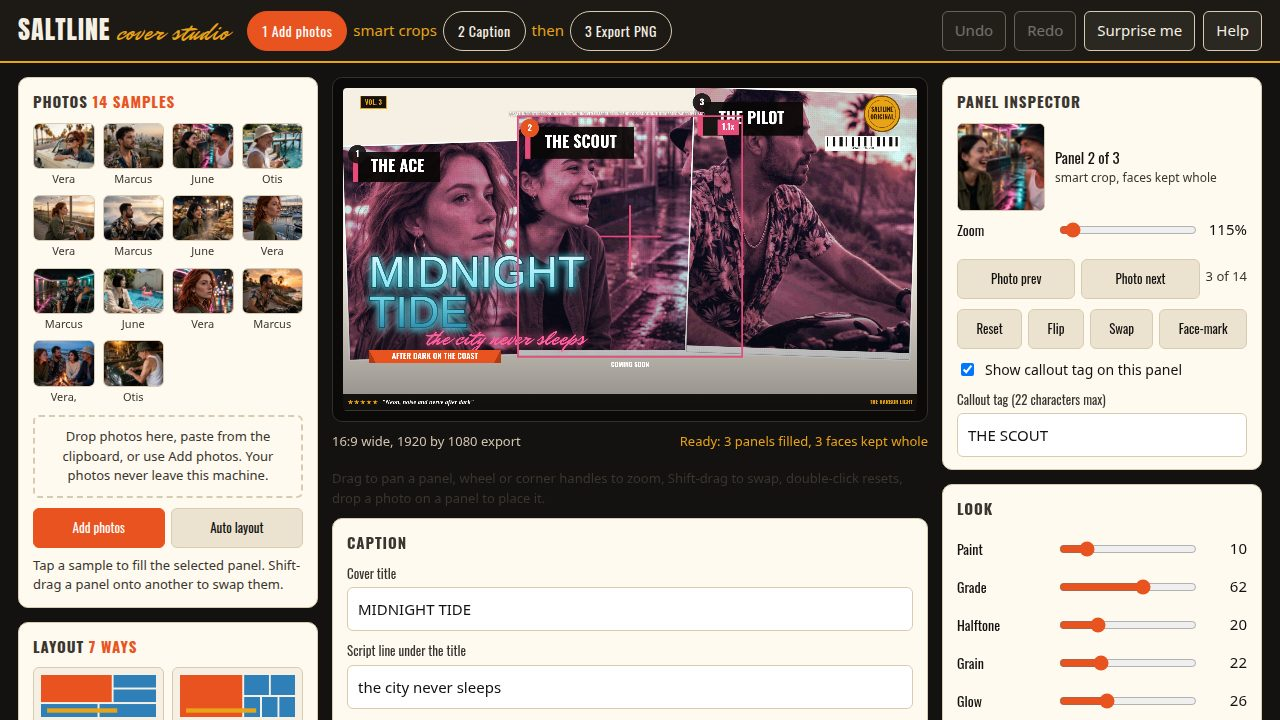
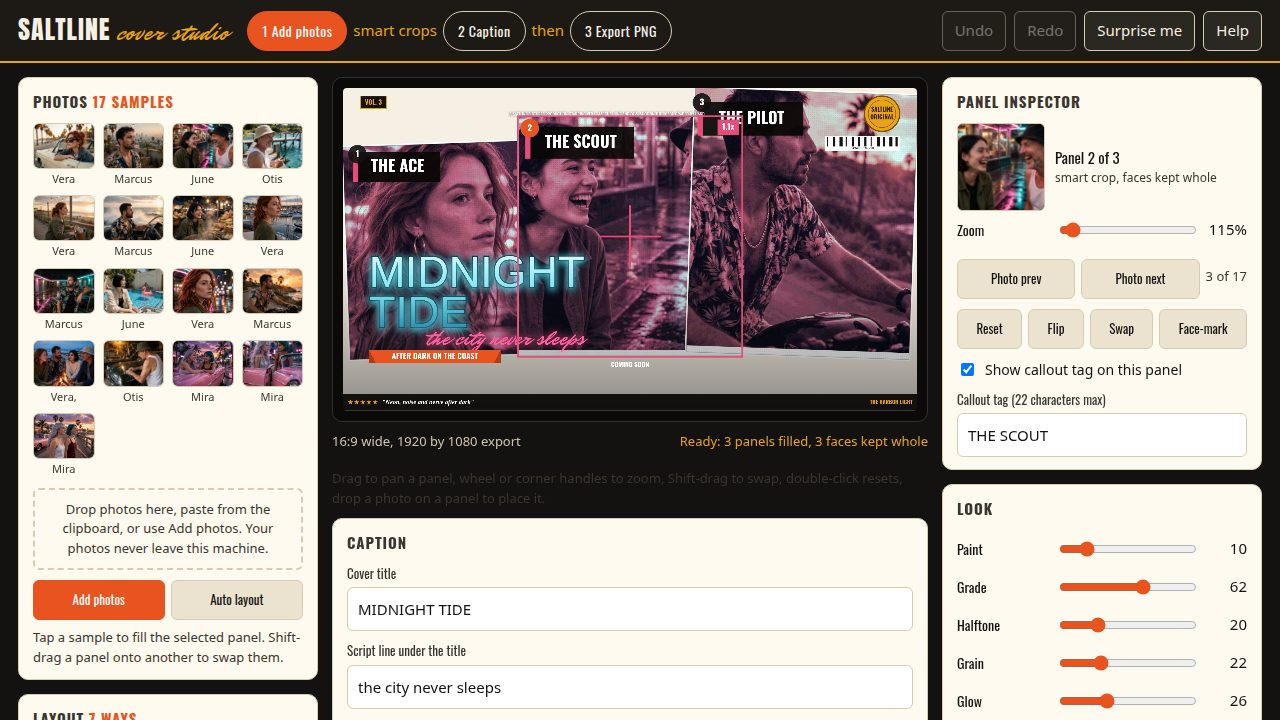
Saltline: Vice City duo heroes + billing shrink-to-fit (recorded session 01a1fbaa)

Changed region(s): [[0.0, 0.4583, 0.25, 1.0], [0.0625, 0.1222, 0.1562, 0.1528]]

diff --git a/app/src/lettering/poster-finish.js b/app/src/lettering/poster-finish.js
@@ -109,28 +109,29 @@ export function drawQuoteBar(ctx, x, y, w, quote, outlet, fontSize) {
 }
 
 export function drawBillingLine(ctx, x, y, w, text, fontSize) {
-  const full = text.toUpperCase();
-  // Shrink the line until the whole billing fits inside its box, measuring
-  // with whatever font is actually live at draw time: Oswald can still be
-  // loading when a capture draws, and the fallback then measures far wider
-  // than Oswald, so a size picked from Oswald's metrics alone would not
-  // fit. Never cut the text: a billing that ends in "..." reads as a
-  // broken poster. Returns the font size the billing was drawn at.
-  const floor = Math.max(8, Math.round(fontSize * 0.55));
+  const line = text.toUpperCase();
+  // A billing line is never allowed to run off its box: shrink it step by
+  // step until it fits, measuring against the font that is really in use
+  // right now. While a webfont is still loading, the fallback face measures
+  // much wider than the real one, so a size chosen from the real face's
+  // metrics alone can still overflow on a capture. If even the smallest
+  // size is too wide, fall through to the two-line wrapped block instead
+  // of trimming a single letter. Returns the size the line was drawn at.
+  const minSize = Math.max(8, Math.round(fontSize * 0.55));
   let size = fontSize;
   ctx.save();
-  ctx.font = `${size}px Oswald, sans-serif`;
   ctx.textAlign = 'center';
   ctx.textBaseline = 'middle';
-  while (ctx.measureText(full).width > w && size > floor) {
-    const next = Math.max(floor, Math.round(size * 0.92));
-    if (next >= size) break;
+  const fits = () => ctx.measureText(line).width <= w;
+  const setSize = (next) => {
     size = next;
     ctx.font = `${size}px Oswald, sans-serif`;
+  };
+  setSize(size);
+  while (!fits() && size > minSize) {
+    setSize(Math.max(minSize, Math.round(size * 0.92)));
   }
-  if (ctx.measureText(full).width > w) {
-    // Even at the floor the line does not fit: wrap it over two lines,
-    // centred on the same y, instead of dropping any of it.
+  if (!fits()) {
     ctx.restore();
     drawBillingBlock(ctx, x, y - size * 1.15, w, text, size);
     return size;
@@ -138,7 +139,7 @@ export function drawBillingLine(ctx, x, y, w, text, fontSize) {
   ctx.shadowColor = 'rgba(0, 0, 0, 0.85)';
   ctx.shadowBlur = Math.round(size * 0.4);
   ctx.fillStyle = '#fff';
-  ctx.fillText(full, x + w / 2, y);
+  ctx.fillText(line, x + w / 2, y);
   ctx.restore();
   return size;
 }

diff --git a/app/src/photos/sample-photos.js b/app/src/photos/sample-photos.js
@@ -1,4 +1,4 @@
-// sample-photos.js — the 14 image-model sample photos and the invented cast
+// sample-photos.js — the 17 image-model sample photos and the invented cast
 // who recurs across every cover. Vera, Marcus, June and Otis are invented
 // people; their names feed the callout tags so the covers tell one story.
 // Every file is a photograph with no text and no logos in it.
@@ -7,6 +7,8 @@ export const CAST = [
   { name: 'Marcus', note: '30s, short beard, floral shirt, gold chain' },
   { name: 'June', note: 'early 20s, dark bob' },
   { name: 'Otis', note: '50s, bucket hat, white tank top' },
+  { name: 'Mira', note: '20s, long silver-lilac hair, white top' },
+  { name: 'Suki', note: '20s, short teal bob, burgundy tank top' },
 ];
 
 export const SAMPLE_PHOTOS = [
@@ -24,6 +26,9 @@ export const SAMPLE_PHOTOS = [
   { file: 'samples/marcus-rider.jpg', cast: 'Marcus', scene: 'motorcycle at sunset' },
   { file: 'samples/crew-bonfire.jpg', cast: 'Vera, Marcus, June and Otis', scene: 'beach bonfire at dusk' },
   { file: 'samples/otis-garage.jpg', cast: 'Otis', scene: 'polishing the classic car' },
+  { file: 'samples/vice-duo-convertible.jpg', cast: 'Mira and Suki', scene: 'pink convertible at purple dusk' },
+  { file: 'samples/vice-duo-neon.jpg', cast: 'Mira and Suki', scene: 'pink car door under the neon signs' },
+  { file: 'samples/vice-duo-boardwalk.jpg', cast: 'Mira and Suki', scene: 'boardwalk at sunset, pink car behind' },
 ];
 
 export const DEFAULT_TAGS = [

diff --git a/app/src/render/render-cover.js b/app/src/render/render-cover.js
@@ -173,11 +173,11 @@ export function drawFinishLayer(ctx, doc, W, H, accent) {
   const barW = Math.round(W * 0.13);
   const barH = Math.round(H * 0.045);
   drawBarcode(ctx, W - barW - Math.round(W * 0.03), sealR * 2 + Math.round(H * 0.04), barW, barH, barcodeNumber(doc.title.length * 7919 + doc.panels.length * 131));
-  // Billing block: one centred line under the top row, between the volume
-  // tag and the seal, so the bottom band stays free for the callout tags.
-  // The box runs 0.10W..0.82W: its right edge stays clear of the barcode
-  // (which starts at 0.84W) and its left edge stays clear of the volume
-  // tag, while the extra width gives the billing room to fit whole.
+  // Billing: a single centred line tucked under the top row, between the
+  // volume tag on the left and the seal on the right, leaving the bottom
+  // band open for the callout tags. The box spans 0.10W to 0.82W, so it
+  // ends before the barcode (which begins at 0.84W) and clears the volume
+  // tag on the other side, with enough width for the line to fit whole.
   drawBillingLine(ctx, W * 0.10, H * 0.082, W * 0.72, doc.billing, Math.round(H * 0.014));
   // Coming soon, centred above the quote bar.
   if (doc.comingSoon) drawComingSoon(ctx, 0, H * 0.858, W, Math.round(H * 0.02));

diff --git a/app/src/shot/shot-scenes.js b/app/src/shot/shot-scenes.js
@@ -14,7 +14,7 @@ export const SHOT_SCENES = {
     layout: 'hero-mosaic',
     grade: 'sunset',
     caption: 0,
-    photos: [0, 1, 2, 3, 4],
+    photos: [14, 1, 2, 3, 4],
   },
   editor: {
     mode: 'editor',
@@ -31,7 +31,7 @@ export const SHOT_SCENES = {
     layout: 'six-grid',
     grade: 'golden-hour',
     caption: 2,
-    photos: [12, 5, 9, 6, 7, 4],
+    photos: [15, 5, 9, 6, 7, 4],
   },
   cover4: {
     mode: 'cover',
@@ -39,7 +39,7 @@ export const SHOT_SCENES = {
     layout: 'seven-mosaic',
     grade: 'tropic-teal',
     caption: 3,
-    photos: [4, 0, 5, 8, 11, 1, 3],
+    photos: [16, 0, 5, 8, 11, 1, 3],
   },
 };
 

diff --git a/app/src/state/default-doc.js b/app/src/state/default-doc.js
@@ -51,7 +51,7 @@ export function defaultDoc() {
     look: { ...DEFAULT_LOOK },
     selected: 0,
     panels: [
-      makePanel(0, 'THE ACE'),
+      makePanel(14, 'THE ACE'),
       makePanel(1, 'THE SCOUT'),
       makePanel(2, 'THE PILOT'),
       makePanel(3, 'THE HOST'),
